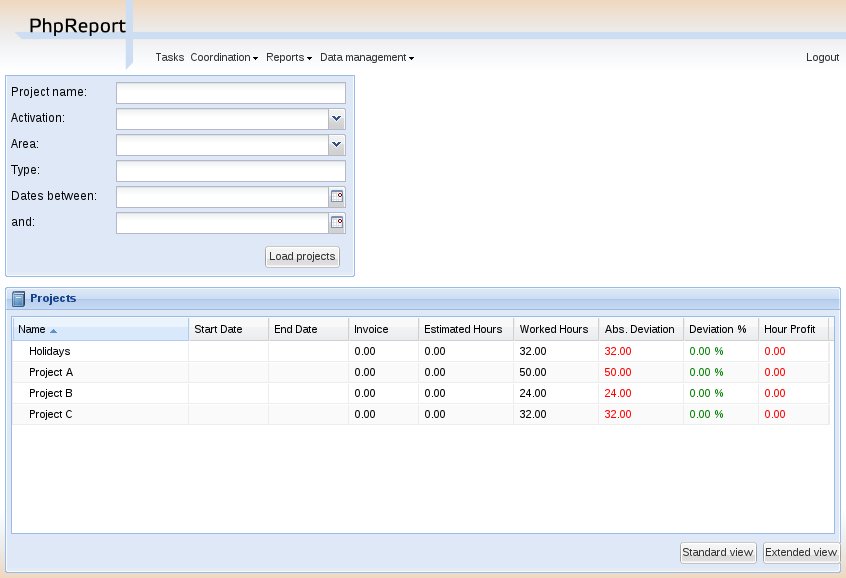
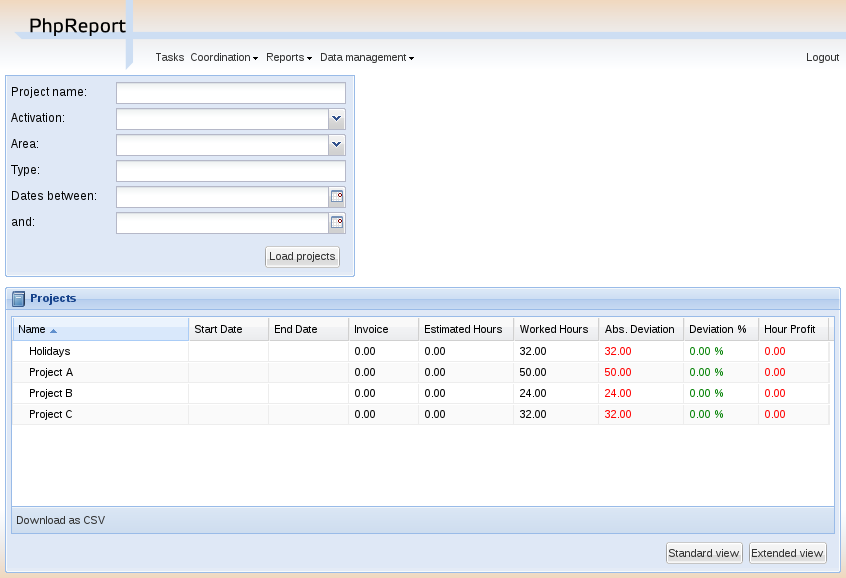
User help: update reports section with the latest changes.

Changed region(s): [[0.0, 0.872, 1.0, 0.9654]]

diff --git a/docs/user/reports.rst b/docs/user/reports.rst
@@ -58,7 +58,10 @@ Task type:
 
 The results are shown in the grid in the central area of the screen; rows
 represent tasks and columns represent the different data stored in them.
-Finally, in the bottom of the grid there are two buttons named **Standard view**
+You can export the data contained in the grid to a CSV file for processing with
+spreadsheet software, for example, using the **Download as CSV** button at the
+bottom of the grid.
+Finally, at the bottom of the box containing the grid there are two buttons named **Standard view**
 and **Extended view**. The first one hides some columns to show a more compact
 grid (it's the default option), while the second one shows all the columns.
 
@@ -75,6 +78,8 @@ the groups it belongs to. Then there are two date inputs to insert the report
 dates: if the start date is left empty, the default value is the date of the
 first task inserted by the user; if the end date is empty, the default value is
 the current date.
+There are quick-access buttons for common combinations of dates at the bottom
+of the dates box.
 
 The results are shown in the grid in the central area of the screen; rows
 represent projects and columns represent workers. There are two extra columns,
@@ -82,6 +87,10 @@ represent projects and columns represent workers. There are two extra columns,
 a project, independently from the client (thus, it's the sum of all the client
 columns) and the latter shows the proportion of hours of one project regarding
 all the work done by the user in the same time period.
+
+You can export the data contained in the grid to a CSV file for processing with
+spreadsheet software, for example, using the **Download as CSV** button at the
+bottom of the grid.
 
 User evaluation
 ===============
@@ -95,6 +104,8 @@ In the top of the screen there are two date inputs to insert the report
 dates: if the start date is left empty, the default value is the date of the
 first task inserted by the user; if the end date is empty, the default value is
 the current date.
+There are quick-access buttons for common combinations of dates at the bottom
+of the dates box.
 
 The results are shown in the grid in the central area of the screen; rows
 represent users and columns represent stories (the field *Story* of every task,
@@ -103,6 +114,10 @@ columns, *Total* and *%*; the former shows the total number of hours invested in
 a user, independently from the story (thus, it's the sum of all the story
 columns) and the latter shows the proportion of hours of one user regarding
 all the work done in the organization in that time period.
+
+You can export the data contained in the grid to a CSV file for processing with
+spreadsheet software, for example, using the **Download as CSV** button at the
+bottom of the grid.
 
 Accumulated hours
 =================
@@ -122,6 +137,8 @@ In the top of the screen there are two date inputs to insert the report
 dates: if the start date is left empty, the default value is the date of the
 first contract period of every user; if the end date is empty, the default value
 is the current date.
+There are quick-access buttons for common combinations of dates at the bottom
+of the dates box.
 
 The results are shown in the grid in the central area of the screen; rows
 represent users and columns represent the following data:
@@ -162,6 +179,10 @@ Total extra hours:
   this column. If the user has any compensation entry the value of this column
   reflects the compensated value adding or subtracting the extra hours since the
   date the compensation became effective.
+
+You can export the data contained in the grid to a CSV file for processing with
+spreadsheet software, for example, using the **Download as CSV** button at the
+bottom of the grid.
 
 Project evaluation
 ==================
@@ -257,6 +278,10 @@ Schedule:
 Type:
   Value of the field *type*.
 
+You can export the data contained in the grid to a CSV file for processing with
+spreadsheet software, for example, using the **Download as CSV** button at the
+bottom of the grid.
+
 Finally, double-clicking on a row will open the project details page for the
 corresponding project.
 
@@ -332,8 +357,10 @@ Price per hour data: deviation %:
 
 Below the project data, there are two date inputs to insert the report
 dates: if the start date is left empty, the default value is the date of the
-first task assigned to the project; if the end date is empty, the default valu
+first task assigned to the project; if the end date is empty, the default value
 is the current date.
+There are quick-access buttons for common combinations of dates at the bottom
+of the dates box.
 
 The results are shown two grids in the bottom  area of the screen; rows
 represent users and columns represent clients in one of the grids, and stories
@@ -342,6 +369,10 @@ in the other one. There are two extra columns,
 the user in the report time period (thus, it's the sum of all the different
 client/story columns) and the latter shows the proportion of hours of one user
 regarding all the work done in the project inside the same time period.
+
+You can export the data contained in the grids to a CSV file for processing with
+spreadsheet software, for example, using the **Download as CSV** button at the
+bottom of the grid.
 
 Projects summary
 ================
@@ -355,6 +386,8 @@ In the top of the screen there are two date inputs to insert the report
 dates: if the start date is left empty, the default value is the date of the
 first task inserted in the system; if the end date is empty, the default value
 is the current date.
+There are quick-access buttons for common combinations of dates at the bottom
+of the dates box.
 
 The report itself consists on two grids shown in two tabs.
 The first tab is the project/customer
@@ -368,6 +401,10 @@ shows the total number of hours devoted to the project (thus, it's the sum of
 all the different client/user columns) and the latter shows the proportion of
 hours of one project regarding the work done in all projects.
 
-Finally, in the bottom of the grid there are two buttons named **All data**
+You can export the data contained in the grid to a CSV file for processing with
+spreadsheet software, for example, using the **Download as CSV** button at the
+bottom of the grid.
+
+Finally, at the bottom of the box containing the grid there are two buttons named **All data**
 and **Only totals**. The latter hides all columns excepting *Project*, *Total*
 and *Percentage*, while the former shows all columns again.
